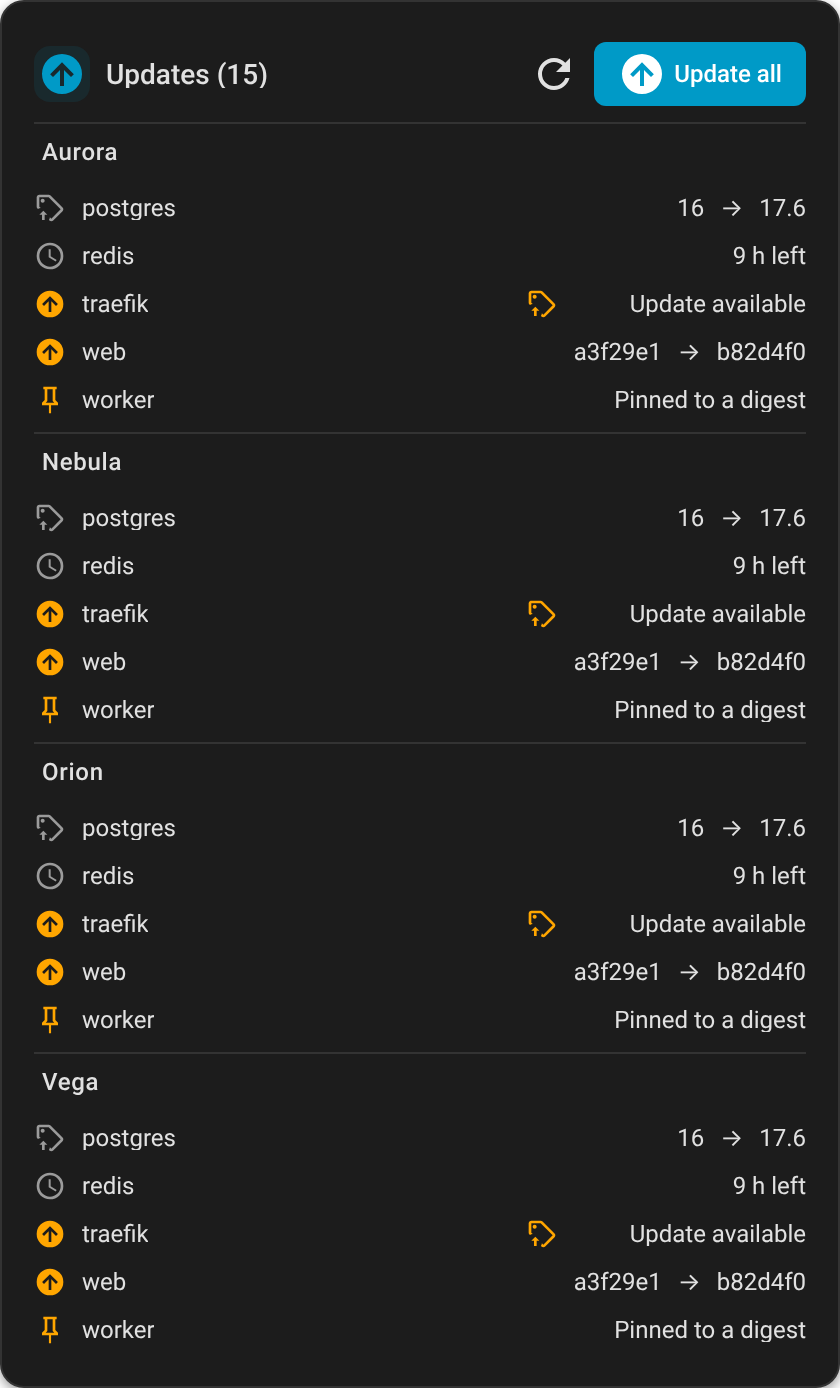
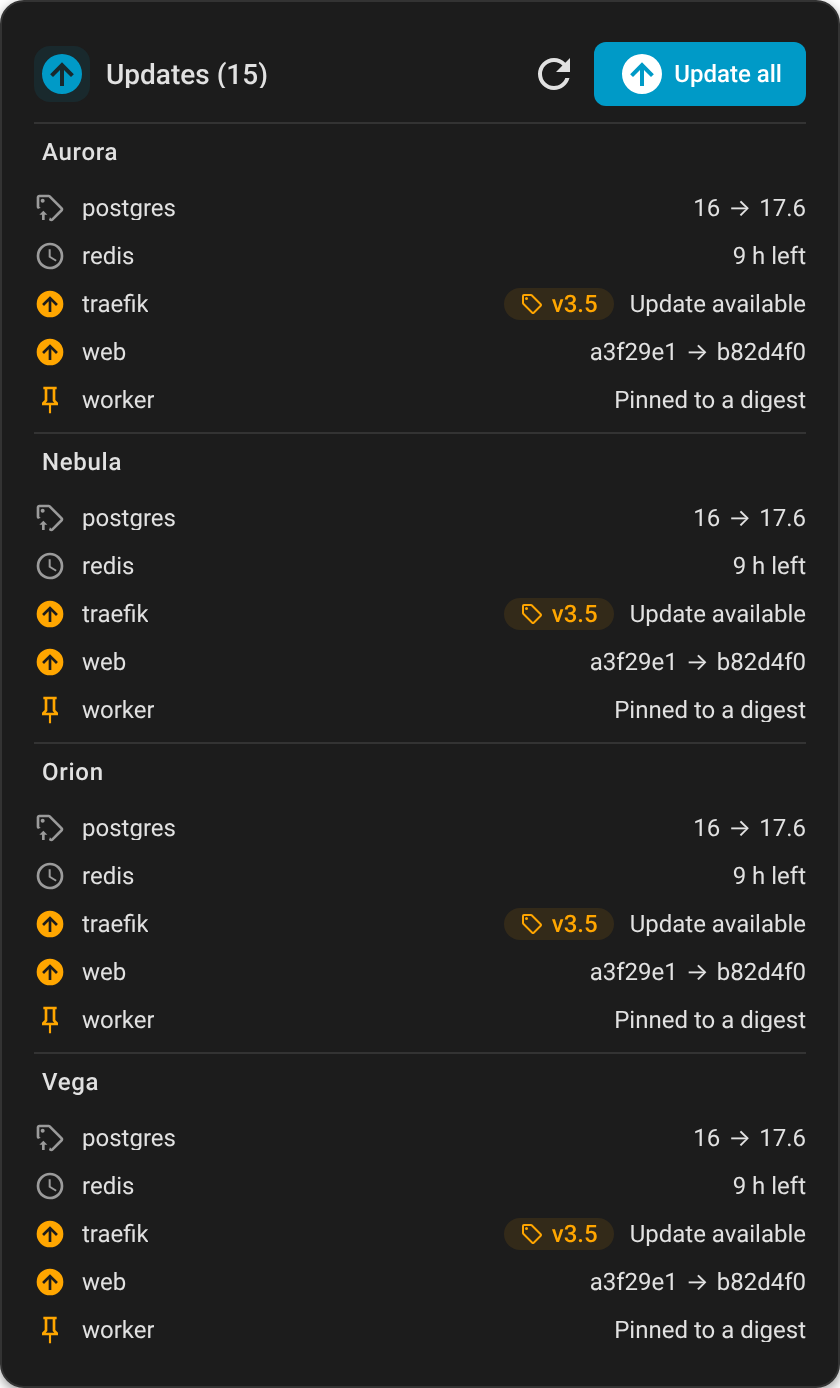
Updates card: the newer tag is a pill in the version column again
A new digest and a new tag at once: the pill naming the tag sits before
the version text in the one version column, instead of an icon in a
column of its own. On a narrow row the versions give way first, then the
pill's text.

Claude-Session: https://claude.ai/code/session_01Y5FKGqp1jA7mdqNGnXYnti

diff --git a/src/dockhand-updates-card/card.ts b/src/dockhand-updates-card/card.ts
@@ -15,7 +15,7 @@ import { renderIcon, onKeydownActivate } from '../common/icon';
 import { t } from '../common/i18n-card';
 import { UPDATE_PENDING_VERSION } from '../common/const';
 import { versionTagTooltip, type NewerVersionTag } from '../common/version-tag';
-import { cell, renderAlignedList } from '../common/aligned-list';
+import { renderAlignedList } from '../common/aligned-list';
 import { RowFitController } from '../common/row-fit';
 import { heldShort, heldTooltip, pinnedDigestTooltip, updateStatus, type UpdateKind } from '../common/update-kind';
 import type { DockhandUpdatesCardConfig } from './types';
@@ -73,10 +73,6 @@ export function canInstall(hass: HomeAssistant, entityId: string): boolean {
 }
 
 const UPDATE_FEATURE_INSTALL = 1;
-
-function hasTagBeside(u: PendingUpdate): boolean {
-  return Boolean(u.newerVersion) && u.kind !== 'tag';
-}
 
 export class DockhandUpdatesCard extends LitElement implements LovelaceCard {
   static styles = cardStyles;
@@ -225,9 +221,6 @@ export class DockhandUpdatesCard extends LitElement implements LovelaceCard {
     // included environment in one sorted list, discarding which group
     // each came from.
     const flatUpdates = effectiveGroupBy === 'none' ? sortPendingUpdates(groups.flatMap((g) => g.updates)) : null;
-    // One grid for every group, so the columns line up across groups too;
-    // the tag column only when some row has a newer tag beside its update.
-    const tagColumn = groups.some((g) => g.updates.some(hasTagBeside));
 
     return html`
       <ha-card>
@@ -275,14 +268,14 @@ export class DockhandUpdatesCard extends LitElement implements LovelaceCard {
                 // The version text right-aligned, and never more than most
                 // of the row, so a long version can't crowd out the name:
                 // it's cut instead (_renderVersion).
-                [...(tagColumn ? ['auto'] : []), 'fit-content(60%)'],
+                ['fit-content(60%)'],
                 flatUpdates
-                  ? flatUpdates.map((u) => this._renderUpdateRow(u, tagColumn))
+                  ? flatUpdates.map((u) => this._renderUpdateRow(u))
                   : groups.map(
                       (g, i) => html`
                         ${i > 0 ? html`<div class="divider"></div>` : nothing}
                         ${showGroupHeaders ? html`<div class="group-header">${g.envName}</div>` : nothing}
-                        ${g.updates.map((u) => this._renderUpdateRow(u, tagColumn))}
+                        ${g.updates.map((u) => this._renderUpdateRow(u))}
                       `
                     )
               )}
@@ -292,15 +285,7 @@ export class DockhandUpdatesCard extends LitElement implements LovelaceCard {
     `;
   }
 
-  private _renderUpdateRow(u: PendingUpdate, tagColumn: boolean): TemplateResult {
-    // The tag only alongside something else: when the tag is the only
-    // update, the version text already names it. An icon, its tag in the
-    // tooltip, so it doesn't widen the column for every row; first, as in
-    // Dockhand.
-    const tag =
-      u.newerVersion && hasTagBeside(u)
-        ? renderIcon({ baseClass: 'row-icon', icon: 'mdi:tag-arrow-up-outline', colorClass: 'warn', title: versionTagTooltip(this._hass, u.newerVersion), static: true })
-        : nothing;
+  private _renderUpdateRow(u: PendingUpdate): TemplateResult {
     let versionText: TemplateResult | string | typeof nothing = nothing;
     let title: string | undefined;
     if (u.kind === 'held') {
@@ -317,14 +302,24 @@ export class DockhandUpdatesCard extends LitElement implements LovelaceCard {
       versionText = html`<span class="version-old">${u.installedVersion}</span><span class="version-arrow"> → </span><span class="version-new">${u.latestVersion}</span>`;
       title = `${u.installedVersion} → ${u.latestVersion}`;
     }
+    // A newer tag waiting behind an update that can be installed now (a new
+    // digest and a new tag at once): a pill naming the tag, ahead of the
+    // version text. When the tag is the only update, the row's icon and
+    // version text already say so. The Containers card shows it as an icon
+    // instead, since its column holds icons only.
+    const tag =
+      u.newerVersion && u.kind !== 'tag'
+        ? html`<span class="label-pill version-tag-pill" title=${versionTagTooltip(this._hass, u.newerVersion)}
+            ><ha-icon icon="mdi:tag-outline"></ha-icon><span class="pill-text">${u.newerVersion.tag}</span></span
+          >`
+        : nothing;
     return html`
       <div class="row update-row clickable" tabindex="0" role="button" @click=${() => this._moreInfo(u.entityId)} @keydown=${onKeydownActivate(() => this._moreInfo(u.entityId))}>
         <div class="row-left">
           <ha-icon class="update-icon ${u.kind}" icon=${UPDATE_ROW_ICONS[u.kind]} title=${title ?? nothing}></ha-icon>
           <span class="item-name">${u.name}</span>
         </div>
-        ${tagColumn ? cell(tag) : nothing}
-        <div class="cell version end" title=${title ?? nothing}>${versionText}</div>
+        <div class="cell version end">${tag}<span class="version-text" title=${title ?? nothing}>${versionText}</span></div>
       </div>
     `;
   }

diff --git a/src/dockhand-updates-card/card.dom.test.ts b/src/dockhand-updates-card/card.dom.test.ts
@@ -149,19 +149,21 @@ describe('Updates card newer version tag', () => {
     return all[all.length - 1]?.textContent?.trim();
   }
 
-  it('puts a tag icon in a column before the version text when an installable update and a newer tag are both pending', async () => {
+  it('puts a tag pill ahead of the version text, in its column, when an installable update and a newer tag are both pending', async () => {
     const card = await mount(hassWithUpdates([{ name: 'nextcloud', installed: '34.0.2', latest: 'update-pending', newer: '35.0.1' }]));
-    const [tagCell, textCell] = cells(row(card, 'nextcloud'));
-    const tag = tagCell.querySelector('.row-icon')!;
-    expect(tag.querySelector('ha-icon')?.getAttribute('icon')).toBe('mdi:tag-arrow-up-outline');
-    expect(tag.getAttribute('title')).toContain('35.0.1');
-    expect(textCell.textContent?.trim()).toBe('Update available');
+    const all = cells(row(card, 'nextcloud'));
+    expect(all).toHaveLength(1);
+    const pill = all[0].firstElementChild!;
+    expect(pill.classList.contains('version-tag-pill')).toBe(true);
+    expect(pill.textContent?.trim()).toBe('35.0.1');
+    expect(pill.getAttribute('title')).toContain('35.0.1');
+    expect(all[0].querySelector('.version-text')!.textContent?.trim()).toBe('Update available');
     const icon = row(card, 'nextcloud').querySelector('.update-icon')!;
     expect(icon.getAttribute('icon')).toBe('mdi:arrow-up-circle');
     expect(icon.classList.contains('tag')).toBe(false);
   });
 
-  it('keeps an empty tag cell, so the version texts line up, on a row whose only update is the tag', async () => {
+  it('shows the tag as the row icon when the newer tag is the only update', async () => {
     const card = await mount(
       hassWithUpdates([
         { name: 'postgres', installed: '16.3', latest: '17.0', newer: '17.0' },
@@ -169,7 +171,9 @@ describe('Updates card newer version tag', () => {
       ])
     );
     const r = row(card, 'postgres');
-    expect(cells(r).map((c) => c.textContent?.trim())).toEqual(['', '16.3 → 17.0']);
+    expect(cells(r).map((c) => c.textContent?.trim())).toEqual(['16.3 → 17.0']);
+    expect(r.querySelector('.version-tag-pill')).toBeNull();
+    expect(r.querySelector('.version-text')!.getAttribute('title')).toBe('16.3 → 17.0');
     const icon = r.querySelector('.update-icon')!;
     expect(icon.getAttribute('icon')).toBe('mdi:tag-arrow-up-outline');
     expect(icon.classList.contains('tag')).toBe(true);
@@ -218,7 +222,7 @@ describe('Updates card newer version tag', () => {
     const version = row(card, 'web').querySelector<HTMLElement>('.cell.version')!;
     expect(version.querySelector('.version-old')!.textContent).toBe('16.4-bookworm-20260101');
     expect(version.querySelector('.version-new')!.textContent).toBe('17.6-bookworm-20261101');
-    expect(version.getAttribute('title')).toBe('16.4-bookworm-20260101 → 17.6-bookworm-20261101');
+    expect(version.querySelector('.version-text')!.getAttribute('title')).toBe('16.4-bookworm-20260101 → 17.6-bookworm-20261101');
     expect(version.classList.contains('end')).toBe(true);
     // Never more than most of the row.
     expect(card.shadowRoot!.querySelector<HTMLElement>('.list.aligned')!.style.gridTemplateColumns).toContain('fit-content(60%)');

diff --git a/src/dockhand-updates-card/styles.ts b/src/dockhand-updates-card/styles.ts
@@ -16,8 +16,12 @@ export const cardStyles = css`
     color: var(--secondary-text-color);
   }
   /* A cell that can shrink below its text (min-width 0), so the old
-   * version, then the new, is cut rather than the name. */
-  .update-row > .cell.version {
+   * version, then the new, then a tag pill's text, is cut rather than the
+   * name. */
+  .update-row > .cell.version,
+  .update-row .version-text {
+    display: flex;
+    align-items: center;
     gap: var(--ha-space-1, 4px);
     min-width: 0;
     overflow: hidden;
@@ -41,5 +45,28 @@ export const cardStyles = css`
   }
   .version-arrow {
     flex-shrink: 0;
+  }
+  .update-row > .cell.version {
+    gap: var(--ha-space-2, 8px);
+  }
+  /* The version text first gives way, then the tag pill's text. */
+  .version-text {
+    flex: 0 1000 auto;
+  }
+  /* Same color as the update icon, on a tint of it, as Dockhand's own badge
+   * (amber at 10%). */
+  .version-tag-pill {
+    color: var(--dockhand-status-warn-text-color);
+    background: rgb(from var(--dockhand-status-warn-color) r g b / 0.1);
+    flex: 0 1 auto;
+    min-width: 0;
+  }
+  .version-tag-pill ha-icon {
+    color: var(--dockhand-status-warn-color);
+  }
+  .version-tag-pill .pill-text {
+    min-width: 0;
+    overflow: hidden;
+    text-overflow: ellipsis;
   }
 `;

diff --git a/CHANGELOG.md b/CHANGELOG.md
@@ -36,7 +36,7 @@ Dockhand Cards 2.0 goes with the Dockhand integration 2.0, reading its new senso
 
 ### Changed
 
-- **List rows line up their details in columns** — on the Containers, Stacks, Updates and Schedules cards, and the Environment card's top containers, each detail on the right of a row (updates, health, container count, CPU, memory, version, next run, controls) has a column as wide as its widest value, so they line up down the card, across groups too. Only the details shown, and that some row has, get a column. The name, type, environment and tags stay together on the left. A newer version tag is now an orange tag icon, its tag in the tooltip, rather than a pill, before the update icon as in Dockhand, both right-aligned so a row with only one lines up with the rest. On the Updates card the version stays right-aligned, and a long one is cut, the old one first, rather than the name, with both whole in the tooltip. When a name would be cut short, its environment, type and instance pills give way after the tags; if the columns still don't fit beside the names, the list scrolls sideways, as Dockhand's tables do, its controls staying in view. The editors list the row details in the order a row shows them.
+- **List rows line up their details in columns** — on the Containers, Stacks, Updates and Schedules cards, and the Environment card's top containers, each detail on the right of a row (updates, health, container count, CPU, memory, version, next run, controls) has a column as wide as its widest value, so they line up down the card, across groups too. Only the details shown, and that some row has, get a column. The name, type, environment and tags stay together on the left. On the Containers card a newer version tag is now an orange tag icon, its tag in the tooltip, rather than a pill, before the update icon as in Dockhand, both right-aligned so a row with only one lines up with the rest; on the Updates card it stays a pill naming the tag, now in the version column before the version text. The Updates card's version stays right-aligned, and a long one is cut, the old one first, rather than the name, with both whole in the tooltip. When a name would be cut short, its environment, type and instance pills give way after the tags; if the columns still don't fit beside the names, the list scrolls sideways, as Dockhand's tables do, its controls staying in view. The editors list the row details in the order a row shows them.
 - **Container states look the same on every card, as in Dockhand** — the Container card, the Containers card and the Stack card's pills share Dockhand's container list icons and colors: a stopped container is red on the Container card too (it was grey), and a created one is blue with a plus.
 - **Cards keep up on a large Home Assistant.** Home Assistant hands every card a new state whenever anything changes, and the cards searched every entity in Home Assistant for each device they show each time. They now look entities up from an index built once per registry change, and skip re-measuring their rows when nothing on them changed. With about 150 containers and 9,000 entities, the Updates card took half a second per state change and now takes about a millisecond; the Overview card went from over half a second to under 10 ms.
 - **Stack and Container cards: shorter names, controls in the header.** Unnamed, a card is now called "Orion – traefik" rather than its device's "Orion – Stacks – traefik", since the icon already says stack or container (a name you gave the device in Home Assistant still wins), and on the Dockhand dashboard's Stacks and Containers pages just "traefik", since the page names the environment. The start, stop, restart and deploy buttons are icons in the header now, beside the settings link, instead of a row under the status. They're in Dockhand's own order: a stack's deploy, then start, restart, pause and stop. As in Dockhand, a stopped container offers Restart as well as Start, a paused one Resume, and a running one Pause once its **Pause** entity is turned on (it's disabled by default in the integration).

diff --git a/docs/cards/updates.md b/docs/cards/updates.md
@@ -15,7 +15,7 @@ show_filtered_count: true # a "Hidden by filters" line under a filtered list
 
 Every pending container update across the environments you choose, with **Check for updates** and **Update all** buttons in the header. Update all installs every update the card lists that Home Assistant can install, as one Dockhand job per environment; like Dockhand's own Update all, that leaves out system containers, newer tags, pinned digests and held updates (the button is disabled, with a tooltip saying why, when that's everything listed). Click a row to open that container's update dialog and install just that one.
 
-A newer version tag (one you'd move to by changing the container's image tag rather than installing from Home Assistant) gets a grey tag icon in place of the update icon when it's the row's only update. When it's waiting behind an update that can be installed now, an orange tag icon in its own column shows it, the tag in its tooltip. Two more kinds of row, both as Dockhand's own containers list shows them: a container pinned to a digest (`image:tag@sha256:…`) whose tag has moved on gets an orange pin and "Pinned to a digest" (the update is changing the pin, so there's nothing to install), and an update Dockhand is holding until the new image reaches its minimum image age gets a grey clock and the hours left, so you can see it coming ("At next check" once the wait is over, until Dockhand's next update check offers it). Both count in the header, and keep the card showing when **Hide when no updates** is on. Needs ha-dockhand 1.11.0 or later.
+A newer version tag (one you'd move to by changing the container's image tag rather than installing from Home Assistant) gets a grey tag icon in place of the update icon when it's the row's only update. When it's waiting behind an update that can be installed now (a new digest and a new tag at once), an orange tag pill naming it sits before the version text. Two more kinds of row, both as Dockhand's own containers list shows them: a container pinned to a digest (`image:tag@sha256:…`) whose tag has moved on gets an orange pin and "Pinned to a digest" (the update is changing the pin, so there's nothing to install), and an update Dockhand is holding until the new image reaches its minimum image age gets a grey clock and the hours left, so you can see it coming ("At next check" once the wait is over, until Dockhand's next update check offers it). Both count in the header, and keep the card showing when **Hide when no updates** is on. Needs ha-dockhand 1.11.0 or later.
 
 Updates are grouped by environment by default; `group_by: none` shows one combined list.
 

diff --git a/docs/styling.md b/docs/styling.md
@@ -34,7 +34,7 @@ Where Home Assistant has a standard color for something, the cards use it direct
 |---|---|---|
 | `--dockhand-accent-color` | `var(--primary-color)` | Accent color of these cards only |
 | `--dockhand-status-ok-color` | `var(--success-color, #43a047)` | Running/healthy/synced/all-clear states |
-| `--dockhand-status-warn-color` | `var(--warning-color, #ffa600)` | Paused/partial/pending-update states, including the newer version tag icon |
+| `--dockhand-status-warn-color` | `var(--warning-color, #ffa600)` | Paused/partial/pending-update states, including the newer version tag icon (a tinted pill on the Updates card) |
 | `--dockhand-status-error-color` | `var(--error-color, #db4437)` | Stopped/unhealthy/restarting/sync-error states |
 | `--dockhand-status-info-color` | `var(--info-color, #039be5)` | In-progress states (currently just git "syncing") |
 | `--dockhand-status-off-color` | `var(--secondary-text-color, #727272)` | A feature that's off: the Environment card's header icons for update checks, scanning, activity and metrics |
